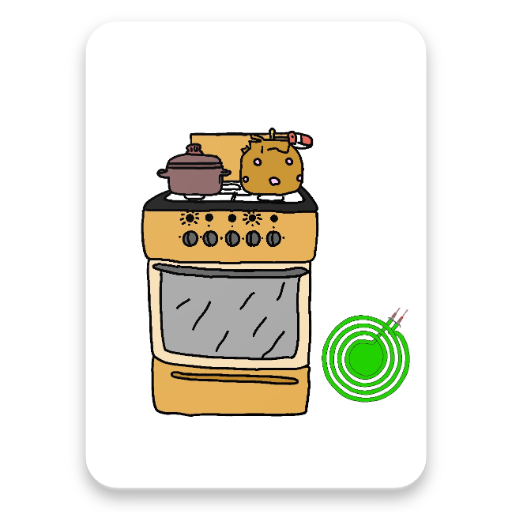
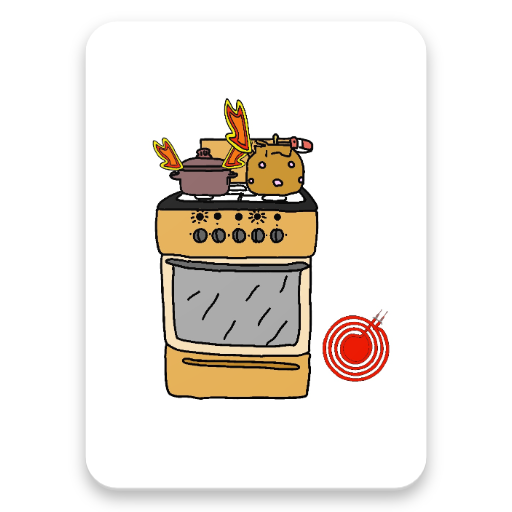
weitere Arbeit am Frontend

Changed region(s): [[0.25, 0.1875, 0.8125, 0.8125], [0.5938, 0.4062, 0.625, 0.4375]]

diff --git a/Frontend/index.html b/Frontend/index.html
@@ -3,25 +3,25 @@
   <head>
     <meta name="viewport" content="width=device-width, initial-scale=1">
     <link rel="stylesheet" type="text/css" href="stylesheet.css">
+    <script src="https://ajax.googleapis.com/ajax/libs/jquery/3.3.1/jquery.min.js"></script>
     <script src="script.js"></script>
     <meta charset="utf-8">
     <title>Projekt-Ist der Herd noch an?</title>
   </head>
 
   <body>
+
+
+
     <h1>Ist der Herd noch an?</h1>
     <div class="row">
-     <div class="column"><img src="Icon.v.2.png"></div>
+     <div class="column"><img id="image" src="Icon.v.2.png"></div>
      <div class="column">
       <div class="anzeigebox">
-       <p id="anzeige">Hier wird nacher angezeigt ob der Herd an- oder ausgeschaltet ist.</p>
+       <p id="anzeige">Hier wird nachher angezeigt ob der Herd an- oder ausgeschaltet ist.</p>
       </div>
      </div>
-     <div class="column">
-      <p class="history">Wie ist unsere Idee entstanden?</p>
-    </div>
-    <!-- IDEA:  <button type="button" name="button" onclick="toggle()">Toggle</button>-->
-    </div>
+     
 
   </body>
 </html>

diff --git a/Frontend/script.js b/Frontend/script.js
@@ -2,9 +2,27 @@
 function toggle(){
   if(an){
   document.getElementById("anzeige").innerHTML ="der Herd ist an";
-  }
+  $("#image").attr("src","Icon.v.2.Fire.png");
+}
   else {
     document.getElementById("anzeige").innerHTML ="der Herd ist aus";
+    $("#image").attr("src","Icon.v.2.NoFire.png");
   }
     an = !an;
+}
+
+
+$(document).ready(function(){
+  getstate();
+  setInterval(getstate,5000);
+});
+function getstate(){
+  $.get("http://http.stg.freifunk-iot.de/sample.json", function(data, status){
+      an= data.an;
+      console.log("Data: " + an + "\nStatus: " + status);
+      if (status) {
+        toggle();
+      }
+  });
+
 }

diff --git a/Frontend/stylesheet.css b/Frontend/stylesheet.css
@@ -10,28 +10,23 @@ h1 {
 }
 
 .anzeigebox {
-  width: 200px;
-  height: 100px;
+  width: 300px;
+  height: 200px;
   border: 2px black solid;
-  padding: 10px;
-  /*margin-top: 50px;*/
+  padding: 15px;
+  margin: 0;
+  margin-left: 60px;
 }
 
 .column {
   float:left;
   width: 33.33%;
   padding: 10px;
+  margin-top: 10px;
 }
 
 .row:after {
   content: "";
   display: table;
   clear: both;
-}
-
-.history {
-  border: solid black 2px;
-  width: 200px;
-  height: 100px;
-  padding: 10px;
 }
